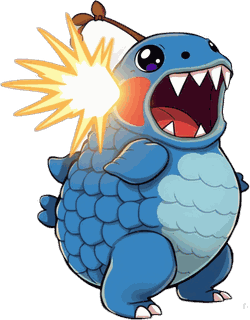
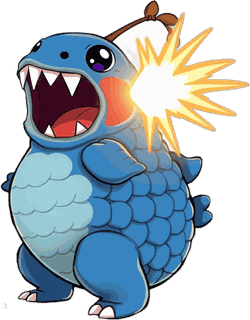
v0.102.0: シンカイギョの発射とスライムの被弾を反転する
報告:「シンカイギョが魔法発射の時、右を向いている」
     「フショクスライムも右を向いているときがある」

どちらも私の見落とし。小さく並べた一覧では、シンカイギョの発射は
炸裂光が左にあるので「左へ撃っている」と読めてしまった。実寸で見ると
牙を剥いた口も目も右にあり、光は背中側だった。フショクスライムは
被弾の1枚だけが右向きで、「ときがある」はまさにその瞬間のこと
(v0.92.0 で「被弾は顔をそむけるので右向きで正しい」と判断したが、
 他の13種の被弾はすべて左向きだったので、あれは間違いだった)。

同じ読み違いを繰り返したので、今回は14種×4ポーズの56枚を
すべて実寸(高さ300px・4枚ずつ)で見直した。上の2枚以外に
右を向いているものは無い。

diff --git a/shared/version.ts b/shared/version.ts
@@ -4,6 +4,6 @@
 // BUILD_DATE は npm run build のたびに tools/stamp-version.mjs が
 // 実際の時刻(日本時間)で書き換えるので、手で触らないこと。
 
-export const VERSION = '0.101.0';
-export const BUILD_DATE = '2026-08-08 22:37';
+export const VERSION = '0.102.0';
+export const BUILD_DATE = '2026-08-08 23:03';
 export const COPYRIGHT = 'Copyright © 2026 YuriPapa';
